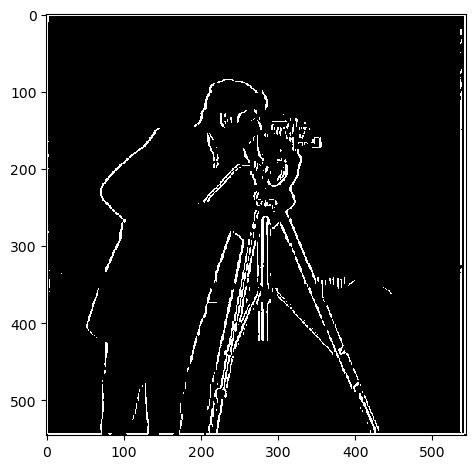
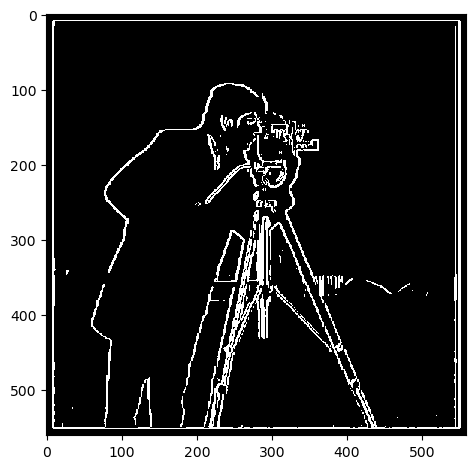
Updated proj2 website.

diff --git a/index.html b/index.html
@@ -45,6 +45,8 @@
         <figure> 
           <img src="./out_path/cam_x_bin.png", width="400">
           <figcaption class="caption"> Camera Man X Filter Binarized
+            <br>
+            Threshold: 0.25
           </figcaption>
         </figure>
       </div>
@@ -59,6 +61,8 @@
         <figure> 
           <img src="./out_path/cam_y_bin.png", width="400">
           <figcaption class="caption"> Camera Man Y Filter Binarized
+            <br>
+            Threshold: 0.2
           </figcaption>
         </figure>
       </div>
@@ -80,6 +84,8 @@
         <figure> 
           <img src="./out_path/cam_grad_bin.png", width="400">
           <figcaption class="caption"> Camera Man Gradient Magnitude Binarized
+            <br>
+            Threshold: 0.2
           </figcaption>
         </figure>
       </div>
@@ -118,6 +124,8 @@
         <figure> 
           <img src="./out_path/cam_gaus_x_bin.png", width="400">
           <figcaption class="caption"> Camera Man X Finite Blur Filter Binarized
+            <br>
+            Threshold: 0.09
           </figcaption>
         </figure>
       </div>
@@ -133,7 +141,7 @@
           <img src="./out_path/cam_gaus_y_bin.png", width="400">
           <figcaption class="caption"> Camera Man Y Finite Blur Filter Binarized 
             <br>
-            Threshold: 0.2
+            Threshold: 0.09
           </figcaption>
         </figure>
       </div>
@@ -155,6 +163,8 @@
         <figure> 
           <img src="./out_path/cam_gaus_grad_bin.png", width="400">
           <figcaption class="caption"> Camera Man Finite Blur Gradient Magnitude Binarized
+            <br>
+            Threshold: 0.15
           </figcaption>
         </figure>
       </div>
@@ -175,6 +185,8 @@
         <figure> 
           <img src="./out_path/cam_dog_x_bin.png", width="400">
           <figcaption class="caption"> Camera Man X DoG Filter Binarized
+            <br>
+            Threshold: 0.09
           </figcaption>
         </figure>
       </div>
@@ -190,14 +202,14 @@
           <img src="./out_path/cam_dog_y_bin.png", width="400">
           <figcaption class="caption"> Camera Man Y DoG Filter Binarized 
             <br>
-            Threshold: 0.2
+            Threshold: 0.09
           </figcaption>
         </figure>
       </div>
     </div>
 
     <p>
-      Here is the gradient magnitude. The results are of the same shape as the previous section's only a smoother contour.
+      Here is the gradient magnitude. The result is verys similar to the finite derivative filters' result.
     </p>
 
     <div class=image_container> 
@@ -212,6 +224,8 @@
         <figure> 
           <img src="./out_path/cam_dog_mag_bin.png", width="400">
           <figcaption class="caption"> Camera Man DoG Gradient Magnitude Binarized 
+            <br>
+            Threshold: 0.15
           </figcaption>
         </figure>
       </div>
@@ -219,19 +233,21 @@
 
     <h4> Comparison </h4>
 
-    <p> The edges by blurred finite difference filter and derivatives of Gaussian are very similar besides some differences due to padding and noise. </p>
+    <p> The edges by blurred finite difference filter and derivatives of Gaussian are very similar besides some differences possibly due to padding and noise. This is expected
+      because convolution should be associative and commutative.
+    </p>
     <div class=image_container> 
       <div class=image>
         <figure> 
           <img src="./out_path/cam_dog_mag_bin.png", width="400">
-          <figcaption class="caption"> Camera Man DoG Gradient Magnitude
+          <figcaption class="caption"> Camera Man Blurred Finite Guassian Gradient Magnitude
           </figcaption>
         </figure>
       </div>
       <div class=image>
         <figure> 
           <img src="./out_path/cam_gaus_grad_bin.png", width="400">
-          <figcaption class="caption"> Camera Man Blurred Finite Guassian Gradient Magnitude
+          <figcaption class="caption"> Camera Man DoG Gradient Magnitude
           </figcaption>
         </figure>
       </div>
@@ -298,11 +314,30 @@
       </div>
     </div>
 
+    <h4> Blurry City View </h4>
+    
+    <p> Sharpening the image made the watermark background out significantly. </p>
+    <div class=image_container> 
+      <div class=image>
+        <figure> 
+          <img src="./out_path/city_og.png", width="400">
+          <figcaption class="caption"> City View Original
+          </figcaption>
+        </figure>
+      </div>
+      <div class=image>
+        <figure> 
+          <img src="./out_path/city_sharp.png", width="400">
+          <figcaption class="caption"> City View Sharpened
+          </figcaption>
+        </figure>
+      </div>
+    </div>
     <h4> Blur and Sharpen </h4>
 
     <p> 
       In this section, I intentionally blurred a photo of ferns canyon and sharpened it with my sharpening filter. The resharpened image did not come close to the quality of the original image. This 
-      might be due to the lossy nature of the Gaussian blur. In other words, sharpening a Gaussian blurred image cannot restore all information lost through the blurring process. 
+      might be due to the lossy nature of the Gaussian blur. In other words, sharpening a Gaussian blurred image cannot restore all high frequency information lost through the blurring process. 
     </p>
 
     <div class=image_container> 
@@ -349,21 +384,21 @@
       <div class=image>
         <figure> 
           <img src="./out_path/sour_og.png", width="400">
-          <figcaption class="caption"> Sour Original 
+          <figcaption class="caption"> Sour Original (Sigma = 9, Filter Size = 30)
           </figcaption>
         </figure>
       </div>
       <div class=image>
         <figure> 
           <img src="./out_path/guts_og.png", width="400">
-          <figcaption class="caption"> Guts Original
+          <figcaption class="caption"> Guts Original (Sigma = 30, Filter Size = 40)
           </figcaption>
         </figure>
       </div>
       <div class=image>
         <figure> 
           <img src="./out_path/sour_guts.png", width="400">
-          <figcaption class="caption"> Combined Hybrid Image
+          <figcaption class="caption"> Combined Hybrid Image 
           </figcaption>
         </figure>
       </div>
@@ -420,14 +455,14 @@
       <div class=image>
         <figure> 
           <img src="./out_path/rb_og.png", width="400">
-          <figcaption class="caption"> Rainbow Trout Original 
+          <figcaption class="caption"> Rainbow Trout Original (Sigma = 7, Filter Size = 20)
           </figcaption>
         </figure>
       </div>
       <div class=image>
         <figure> 
           <img src="./out_path/br_og.png", width="400">
-          <figcaption class="caption"> Brown Trout Original
+          <figcaption class="caption"> Brown Trout Original (Sigma = 20, Filter Size = 20)
           </figcaption>
         </figure>
       </div>
@@ -453,14 +488,14 @@
       <div class=image>
         <figure> 
           <img src="./out_path/elk1_og.png", width="400">
-          <figcaption class="caption"> Elks Fighting 1 Original 
+          <figcaption class="caption"> Elks Fighting 1 Original (Sigma = 1, Filter Size = 20)
           </figcaption>
         </figure>
       </div>
       <div class=image>
         <figure> 
           <img src="./out_path/elk2_og.png", width="400">
-          <figcaption class="caption"> Elks Fighting 2 Original
+          <figcaption class="caption"> Elks Fighting 2 Original (Sigma = 2, Filter Size = 20)
           </figcaption>
         </figure>
       </div>
@@ -478,25 +513,11 @@
 
     <p> Here are some select Laplacian stack images for the apple and the orange. </p>
 
-    <div class=image_container> 
+    <div class="image_container stack"> 
       <div class=image>
         <figure> 
           <img src="./out_path/ls1.png", width="400">
           <figcaption class="caption"> Apple (1)
-          </figcaption>
-        </figure>
-      </div>
-      <div class=image>
-        <figure> 
-          <img src="./out_path/ls2.png", width="400">
-          <figcaption class="caption"> Apple (2)
-          </figcaption>
-        </figure>
-      </div>
-      <div class=image>
-        <figure> 
-          <img src="./out_path/ls11.png", width="400">
-          <figcaption class="caption">Apple (11)
           </figcaption>
         </figure>
       </div>
@@ -509,8 +530,22 @@
       </div>
       <div class=image>
         <figure> 
+          <img src="./out_path/ls2.png", width="400">
+          <figcaption class="caption"> Apple (2)
+          </figcaption>
+        </figure>
+      </div>
+      <div class=image>
+        <figure> 
           <img src="./out_path/ols2.png", width="400">
           <figcaption class="caption"> Orange (2)
+          </figcaption>
+        </figure>
+      </div>
+      <div class=image>
+        <figure> 
+          <img src="./out_path/ls11.png", width="400">
+          <figcaption class="caption">Apple (11)
           </figcaption>
         </figure>
       </div>
@@ -667,11 +702,12 @@
         </figure>
       </div>
     </div>
+
   <h2> Bells and Whistles </h2>
 
     <h3> Color Enhanced Images </h3> 
       <p> 
-        I explored an additional three combinations of color vs gray image hybridizations. Here, I will present the hybridization with gray image 1, color image2; color image 1, color image 2;
+        I explored an additional three combinations of color vs gray image hybridizations. Here, I will present the hybridization with gray image 1, color image 2; color image 1, color image 2;
         and color image 1, gray image 2. 
       </p>
 
@@ -710,12 +746,20 @@
         attention to the low frequency at short and long distances. Thus, the hybrid effects in (1) and (3) are not very good. 
         Comparing (2) and (4), we can see that the all gray scale hybrid image's Sour era details are too faint to be eye-catching at 
         close range. Since the major details that signify the Sour era are the colored stickers, allowing the Sour's high frequency color 
-        to come through is significantly better than the all gray scale hybridization. 
+        to come through (2) is significantly better than the all gray scale hybridization. Therefore, I think image (2) is the best hybrid image 
+        out of the four.
       </p>
 
     <h3> Colored Blending Images </h3>
       <p> 
-        I have used color for blending the orange and the apple. It has enhanced the appearance of the resulting orapple. 
+        I have used color for blending the orange and the apple, golden trout and rainbow trout, and eel river and lightning. 
+        It has enhanced the appearance of the resulting images.
       </p>
+
+    <h1> Final Reflection </h1>
+
+    <p> 
+      I really enjoyed this project! I learned that frequencies, when manipulated correctly, can produce very interesting results.
+    </p>
   </body>
 </html>

diff --git a/style.css b/style.css
@@ -21,6 +21,10 @@ https://developer.mozilla.org/en-US/docs/Web/CSS/CSS_grid_layout/Box_alignment_i
   grid-template-columns: repeat(3, 1fr); 
 }
 
+.stack {
+  grid-template-columns: repeat(2, 1fr); 
+}
+
 .image {
   background-color: aliceblue;
   align-self: center;
